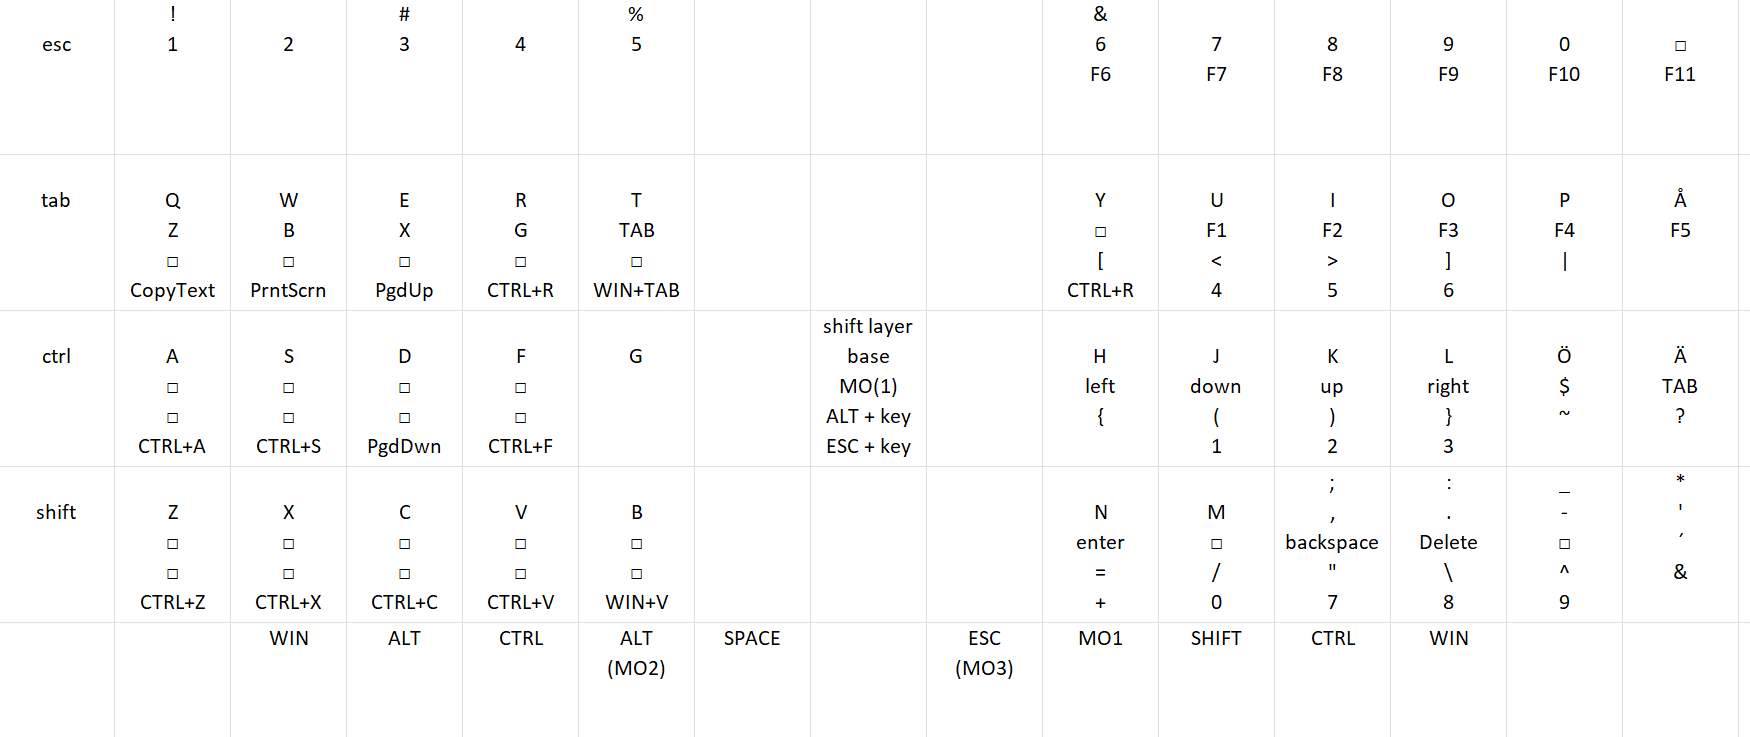
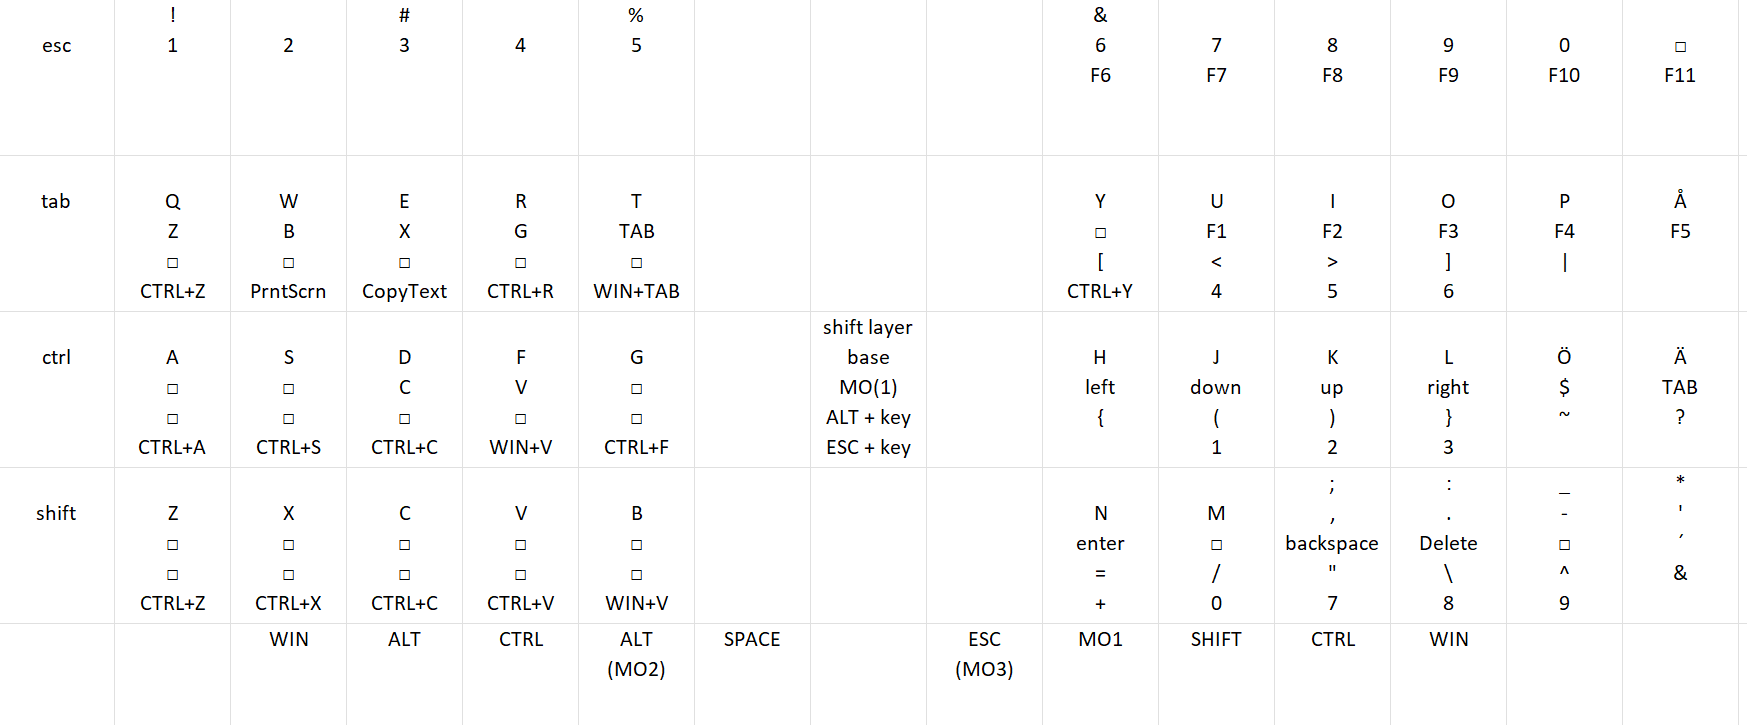
added lower left keys to upper left keys

diff --git a/keyboards/sofle/keymaps/malin/keymap.c b/keyboards/sofle/keymaps/malin/keymap.c
@@ -38,7 +38,7 @@ KC_CAPS,     MO(1),     KC_LSFT,    KC_LCTL,    KC_LGUI
         // Left half
             KC_ESC,     KC_F1,      KC_F2,      KC_F3,      KC_F4,      KC_F5,
             KC_TAB,     KC_Z,       KC_B,       KC_X,       KC_G,       KC_TAB,
-            KC_LCTL,    KC_NO,      KC_NO,      KC_MPLY,    KC_VOLD,    KC_VOLU,
+            KC_LCTL,    KC_NO,      KC_NO,      KC_C,       KC_V,    KC_VOLU,
             KC_LSFT,    SE_LABK,    SE_RABK,    SE_PIPE,    KC_V,       KC_B,       KC_MPLY,
                                     KC_LGUI,    KC_LALT,    KC_LCTL,    KC_LALT,     KC_SPC,
 
